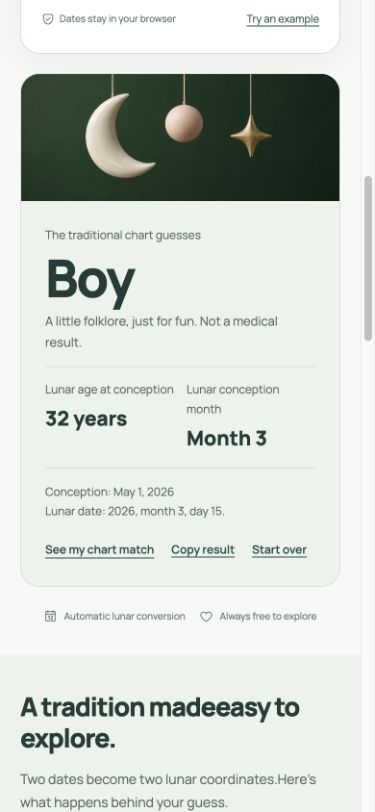
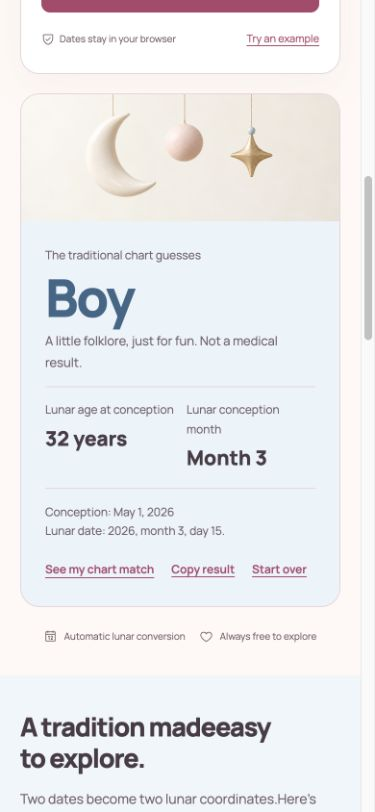
Adopt warm nursery colors and redirect production Vercel hostname

diff --git a/src/styles.css b/src/styles.css
@@ -1,16 +1,15 @@
 @font-face{font-family:Manrope;src:url('/assets/manrope-400.woff2') format('woff2');font-weight:400;font-display:swap}
 @font-face{font-family:Manrope;src:url('/assets/manrope-600.woff2') format('woff2');font-weight:600;font-display:swap}
 @font-face{font-family:Manrope;src:url('/assets/manrope-800.woff2') format('woff2');font-weight:800;font-display:swap}
-:root{--bg:#f7f9f6;--surface:#fff;--surface-soft:#edf2ed;--text:#203d34;--muted:#596b62;--accent:#174f43;--accent-hover:#0e4035;--line:#d7e0d9;--input:#fff;--input-line:#82968a;--rose:#faedef;--rose-text:#945362;--blue:#edf3f8;--blue-text:#3d6077;--shadow:0 12px 40px #284b3310;--radius:20px;color-scheme:light}
-@media(prefers-color-scheme:dark){:root:not([data-theme=light]){--bg:#121e19;--surface:#1a2a22;--surface-soft:#23382c;--text:#e2eee5;--muted:#aabfb0;--accent:#a3d8bd;--accent-hover:#b5e8ce;--line:#3e5547;--input:#17271e;--input-line:#6e8b79;--rose:#422b32;--rose-text:#f4bdcc;--blue:#263943;--blue-text:#b4d6e8;--shadow:none;color-scheme:dark}}
-:root[data-theme=dark]{--bg:#121e19;--surface:#1a2a22;--surface-soft:#23382c;--text:#e2eee5;--muted:#aabfb0;--accent:#a3d8bd;--accent-hover:#b5e8ce;--line:#3e5547;--input:#17271e;--input-line:#6e8b79;--rose:#422b32;--rose-text:#f4bdcc;--blue:#263943;--blue-text:#b4d6e8;--shadow:none;color-scheme:dark}
-*{box-sizing:border-box}html{scroll-behavior:smooth;scroll-padding-top:30px}body{margin:0;background:var(--bg);color:var(--text);font-family:Manrope,system-ui,sans-serif;font-size:16px;line-height:1.7}button,input{font:inherit}button,a{-webkit-tap-highlight-color:transparent}button{cursor:pointer}a{color:var(--accent);text-underline-offset:4px}a:hover{text-decoration-thickness:2px}img{display:block;max-width:100%;object-fit:cover}h1,h2,h3,p{margin:0}h1,h2,h3{line-height:1.2}h1{font-size:clamp(2.35rem,4.5vw,3.6rem);font-weight:800;letter-spacing:-2.5px}h2{font-size:clamp(1.75rem,2.8vw,2.5rem);font-weight:800;letter-spacing:-1.1px}h3{font-size:1.08rem;font-weight:800;letter-spacing:-.3px}p{color:var(--muted)}button{border:0}.icon{width:22px;height:22px;fill:currentColor;flex:none;vertical-align:middle}svg{max-width:100%}.container{max-width:1184px;margin:auto;padding:0 32px}[hidden]{display:none!important}.skip-link{position:absolute;top:-90px;left:20px;padding:12px;background:var(--surface);z-index:10}.skip-link:focus{top:10px}a:focus-visible,button:focus-visible,input:focus-visible,summary:focus-visible,[tabindex]:focus-visible{outline:3px solid var(--accent);outline-offset:5px}
-.site-header{border-bottom:1px solid var(--line);background:var(--bg)}.header-inner{display:flex;align-items:center;justify-content:space-between;gap:30px;height:80px}.brand{display:inline-flex;gap:11px;align-items:center;line-height:1.3;text-decoration:none;font-size:15px;font-weight:800;letter-spacing:-.25px;color:var(--text);flex:none}.brand-sub{display:block;font-size:14px;font-weight:600;letter-spacing:.2px}.brand-mark{width:40px;height:40px;border-radius:50%;background:var(--accent);color:var(--bg);display:grid;place-items:center}.brand-mark .icon{width:25px;height:25px}.desktop-nav{display:flex;gap:29px;align-items:center;margin-left:auto}.desktop-nav a{font-size:14px;font-weight:600;text-decoration:none;color:var(--muted);white-space:nowrap;position:relative}.desktop-nav a:hover,.desktop-nav a[aria-current]{color:var(--text)}.desktop-nav a[aria-current]:after{content:'';position:absolute;height:2px;background:var(--accent);left:0;right:0;bottom:-10px}.header-actions{display:flex;gap:8px}.icon-button{height:38px;width:38px;border:1px solid var(--line);border-radius:50%;display:grid;place-items:center;background:transparent;color:var(--text)}.icon-button:hover{background:var(--surface-soft)}.menu-toggle{display:none}.mobile-nav{padding:8px 24px 24px;border-top:1px solid var(--line)}.mobile-nav a{display:block;padding:10px 0;text-decoration:none}
-.tool-section{padding-top:32px;padding-bottom:34px}.intro{margin-bottom:28px}.eyebrow{font-size:11px;letter-spacing:2px;font-weight:800;color:var(--accent);margin-bottom:12px}.intro p{font-size:16px;line-height:1.75;margin-top:16px}.tool-grid{display:grid;grid-template-columns:1.15fr 1fr;gap:25px;align-items:stretch}.calculator-form{padding:29px 32px 24px;background:var(--surface);border:1px solid var(--line);border-radius:var(--radius);box-shadow:var(--shadow)}.form-heading{display:flex;align-items:center;gap:10px;margin-bottom:22px}.form-heading h2{font-size:20px;letter-spacing:-.6px}.form-icon{display:grid;place-items:center;color:var(--accent)}.mode-select{border:0;padding:0;margin:0 0 23px}.mode-select legend{font-size:13px;color:var(--muted);margin-bottom:9px}.segmented{display:flex;background:var(--surface-soft);border:1px solid var(--line);border-radius:10px;padding:4px}.segmented label{flex:1;cursor:pointer;position:relative}.segmented input{position:absolute;opacity:0;width:1px;height:1px}.segmented span{display:block;text-align:center;font-size:14px;font-weight:600;padding:9px 4px;border:1px solid transparent;border-radius:7px;color:var(--muted)}.segmented input:checked+span{background:var(--surface);border-color:var(--line);color:var(--text);box-shadow:0 2px 4px #284b3308}.segmented input:focus-visible+span{outline:3px solid var(--accent);outline-offset:2px}.field-grid{display:grid;grid-template-columns:1fr 1fr;gap:18px}.field label{display:block;font-size:14px;font-weight:800;margin-bottom:8px}.field input{display:block;width:100%;min-width:0;height:50px;padding:11px 12px;border:1px solid var(--input-line);border-radius:8px;background:var(--input);color:var(--text);font-size:15px}.field input[aria-invalid=true]{border-color:var(--rose-text)}.field-hint{font-size:12px;line-height:1.5;margin-top:8px}.fun-note{display:flex;align-items:flex-start;gap:9px;margin-top:22px;margin-bottom:20px;color:var(--muted)}.fun-note .icon{width:16px;height:16px;margin-top:3px}.fun-note p{font-size:12px;line-height:1.8}.fun-note a{font-weight:600}.button{display:inline-flex;align-items:center;justify-content:center;gap:12px;padding:13px 23px;border-radius:9px;text-decoration:none;font-size:14px;font-weight:800;line-height:1.5;white-space:nowrap;transition:transform .15s,background .15s}.button:active{transform:translateY(1px)}.primary{background:var(--accent);color:var(--bg);border:1px solid var(--accent)}.primary:hover{background:var(--accent-hover)}.secondary{background:var(--surface);border:1px solid var(--line);color:var(--text)}.secondary:hover{background:var(--surface-soft)}.submit-button{width:100%}.submit-button .icon{width:19px;height:19px}.form-bottom{display:flex;align-items:center;justify-content:space-between;gap:10px;margin-top:15px;font-size:11px;color:var(--muted)}.form-bottom span{display:flex;gap:5px;align-items:center}.form-bottom .icon{width:14px;height:14px}.text-button{background:none;color:var(--accent);font-size:12px;text-decoration:underline;text-underline-offset:3px;padding:3px 0}.form-error{margin-top:15px;margin-bottom:15px;background:var(--rose);color:var(--rose-text);padding:10px 13px;border-radius:7px;font-size:14px}.result-panel{border:1px solid var(--line);border-radius:var(--radius);overflow:hidden;background:var(--surface-soft);display:flex;flex-direction:column}.result-art{height:206px;background:#173425;overflow:hidden}.result-art img{width:100%;height:100%;object-position:center 51%}.result-content{padding:24px 30px;flex:1}.result-eyebrow{font-size:10px;letter-spacing:1.8px;font-weight:800;color:var(--muted)}.empty-result h2{font-size:26px;line-height:1.23;letter-spacing:-1px;margin:7px 0 10px}.empty-result p{font-size:13px;line-height:1.7;max-width:340px}.empty-details{display:flex;gap:30px;border-top:1px solid var(--line);margin-top:18px;padding-top:12px;font-size:11px;color:var(--muted)}.empty-details b{font-size:12px;display:block;font-weight:600;opacity:.85}.under-tool{display:flex;justify-content:center;gap:45px;font-size:12px;color:var(--muted);padding-top:24px}.under-tool span{display:flex;gap:7px;align-items:center}.under-tool .icon{width:16px;height:16px}
-.has-result .result-art{height:132px}.result-label{font-size:12px;color:var(--muted)}.prediction-value{font-size:54px;font-weight:800;line-height:1.15;letter-spacing:-2px;margin:3px 0;color:var(--text)}.result-description{font-size:13px}.result-stats{display:grid;grid-template-columns:1fr 1fr;gap:13px;border-top:1px solid var(--line);border-bottom:1px solid var(--line);padding:13px 0;margin:14px 0}.result-stats dt{font-size:12px;color:var(--muted)}.result-stats dd{margin:2px 0 0;font-size:20px;font-weight:800}.result-date,.result-warning{font-size:12px;line-height:1.65;margin-top:7px}.result-warning{color:var(--rose-text)}.result-actions{display:flex;gap:18px;align-items:center;margin-top:17px;flex-wrap:wrap}.result-actions a,.result-actions button{font-size:12px;font-weight:600}.result-actions button{display:flex;gap:6px;align-items:center}.result-actions .icon{width:15px;height:15px}.result-proof{display:block;color:var(--muted);font-size:11px;margin-top:13px}.section-heading p{font-size:15px;margin-top:15px;max-width:650px}.how-section{background:var(--surface-soft);margin-top:14px;padding:58px 0}.how-layout{display:grid;grid-template-columns:1fr 1.05fr;gap:85px;align-items:start}.text-link{display:inline-flex;align-items:center;gap:10px;font-size:14px;font-weight:800;margin-top:24px;text-decoration:none}.text-link .icon{width:17px;height:17px}.steps{list-style:none;margin:0;padding:0;display:grid;gap:25px}.steps li{display:flex;gap:18px}.step-icon{width:43px;height:43px;background:var(--surface);border:1px solid var(--line);border-radius:12px;flex:none;display:grid;place-items:center;color:var(--accent)}.steps h3{margin:1px 0 8px;font-size:15px}.steps p{font-size:13px;line-height:1.75;max-width:410px}.chart-section{padding-top:68px;padding-bottom:38px}.chart-toolbar{display:flex;align-items:center;justify-content:space-between;margin:24px 0 16px;gap:15px}.chart-key{display:flex;gap:22px;font-size:14px}.key-boy,.key-girl{display:flex;gap:8px;align-items:center;font-weight:800}.key-boy{color:var(--blue-text)}.key-girl{color:var(--rose-text)}.chart-key span span{font-weight:400;font-size:12px}.small{padding:9px 14px;font-size:12px}.small .icon{width:16px;height:16px}.small-copy{font-size:13px;max-width:760px;margin-bottom:15px}.chart-scroll{max-height:430px;overflow:auto;border:1px solid var(--line);border-radius:13px;background:var(--surface);overscroll-behavior:contain}.gender-chart{width:100%;border-spacing:0;font-size:12px;text-align:center;min-width:650px}.gender-chart caption{position:absolute;width:1px;height:1px;overflow:hidden;clip:rect(0,0,0,0)}.gender-chart th,.gender-chart td{height:43px;border-bottom:1px solid var(--line);padding:6px 10px}.gender-chart thead th{position:sticky;top:0;background:var(--surface-soft);z-index:2;font-weight:800}.gender-chart tbody th{position:sticky;left:0;background:var(--surface);z-index:1;font-weight:800}.gender-chart thead th:first-child{z-index:3;left:0;text-align:center;min-width:95px}.gender-chart .boy{background:var(--blue);color:var(--blue-text)}.gender-chart .girl{background:var(--rose);color:var(--rose-text)}.gender-chart td.selected{outline:3px solid var(--accent);outline-offset:-4px;font-weight:800;position:relative}.gender-chart td.selected:after{content:'*';position:absolute;right:8px}.chart-footnote{font-size:12px;margin-top:12px}.guide-section{padding-top:16px;padding-bottom:45px}.guide-banner{padding:30px;background:var(--surface-soft);border:1px solid var(--line);border-radius:var(--radius);display:flex;gap:23px;align-items:center}.guide-banner h2{font-size:20px;letter-spacing:-.5px}.guide-banner p{font-size:13px;margin-top:9px;max-width:490px}.guide-banner .button{margin-left:auto;flex:none}.guide-mark{color:var(--accent)}.guide-mark .icon{width:42px;height:42px}.honesty-note{display:flex;gap:14px;margin-top:32px;max-width:850px}.honesty-note>.icon{margin-top:2px;width:19px;height:19px}.honesty-note h3{font-size:15px;margin-bottom:8px}.honesty-note p{font-size:13px;line-height:1.9}.faq-section{display:grid;grid-template-columns:1fr 1.5fr;gap:60px;padding-top:30px;padding-bottom:78px}.faq-section h2{font-size:30px}.faq-list details{border-bottom:1px solid var(--line)}.faq-list details:first-child{border-top:1px solid var(--line)}summary{display:flex;align-items:center;justify-content:space-between;gap:20px;padding:19px 0;font-size:14px;font-weight:600;cursor:pointer;list-style:none}summary::-webkit-details-marker{display:none}summary .icon{width:17px;height:17px}details[open] summary .icon{transform:rotate(180deg)}.faq-list details p{padding:0 30px 20px 0;font-size:13px}.site-footer{border-top:1px solid var(--line);background:var(--surface-soft);padding:34px 0 20px}.footer-top{display:flex;align-items:start;gap:52px}.footer-top p{font-size:12px;line-height:1.9}.footer-top nav{margin-left:auto;display:grid;grid-template-columns:1fr 1fr;gap:10px 27px}.footer-top nav a{font-size:12px;text-decoration:none;color:var(--muted)}.footer-bottom{margin-top:30px;padding-top:18px;display:flex;justify-content:space-between;font-size:11px;color:var(--muted)}
+:root{--bg:#fff9f6;--surface:#fff;--surface-soft:#f8ecee;--text:#493b45;--muted:#74616d;--accent:#ad466b;--accent-hover:#983b5d;--line:#e8d5dc;--input:#fffdfc;--input-line:#a88a98;--rose:#fbe8ef;--rose-text:#97415f;--blue:#eaf3fa;--blue-text:#3d6788;--sky-soft:#f0f6fa;--shadow:0 12px 40px #82445e0c;--radius:20px;color-scheme:light}
+*{box-sizing:border-box}html{scroll-behavior:smooth;scroll-padding-top:30px}body{margin:0;background:var(--bg);color:var(--text);font-family:Manrope,system-ui,sans-serif;font-size:16px;line-height:1.7}button,input{font:inherit}button,a{-webkit-tap-highlight-color:transparent}button{cursor:pointer}a{color:var(--accent);text-underline-offset:4px}a:hover{text-decoration-thickness:2px}img{display:block;max-width:100%;object-fit:cover}h1,h2,h3,p{margin:0}h1,h2,h3{line-height:1.2}h1{font-size:clamp(2.35rem,4.5vw,3.6rem);font-weight:800;letter-spacing:-2.5px}h2{font-size:clamp(1.75rem,2.8vw,2.5rem);font-weight:800;letter-spacing:-1.1px}h3{font-size:1.08rem;font-weight:800;letter-spacing:-.3px}p{color:var(--muted)}button{border:0}h1,h2{text-wrap:balance}.icon{width:22px;height:22px;fill:currentColor;flex:none;vertical-align:middle}svg{max-width:100%}.container{max-width:1184px;margin:auto;padding:0 32px}[hidden]{display:none!important}.skip-link{position:absolute;top:-90px;left:20px;padding:12px;background:var(--surface);z-index:10}.skip-link:focus{top:10px}a:focus-visible,button:focus-visible,input:focus-visible,summary:focus-visible,[tabindex]:focus-visible{outline:3px solid var(--accent);outline-offset:5px}
+.site-header{border-bottom:1px solid var(--line);background:var(--bg)}.header-inner{display:flex;align-items:center;justify-content:space-between;gap:30px;height:80px}.brand{display:inline-flex;gap:11px;align-items:center;line-height:1.3;text-decoration:none;font-size:15px;font-weight:800;letter-spacing:-.25px;color:var(--text);flex:none}.brand-sub{display:block;font-size:14px;font-weight:600;letter-spacing:.2px}.brand-mark{width:40px;height:40px;border-radius:50%;background:var(--rose);color:var(--accent);display:grid;place-items:center}.brand-mark .icon{width:25px;height:25px}.desktop-nav{display:flex;gap:29px;align-items:center;margin-left:auto}.desktop-nav a{font-size:14px;font-weight:600;text-decoration:none;color:var(--muted);white-space:nowrap;position:relative}.desktop-nav a:hover,.desktop-nav a[aria-current]{color:var(--text)}.desktop-nav a[aria-current]:after{content:'';position:absolute;height:2px;background:var(--accent);left:0;right:0;bottom:-10px}.header-actions{display:none;gap:8px}.icon-button{height:38px;width:38px;border:1px solid var(--line);border-radius:50%;display:grid;place-items:center;background:transparent;color:var(--text)}.icon-button:hover{background:var(--surface-soft)}.menu-toggle{display:none}.mobile-nav{padding:8px 24px 24px;border-top:1px solid var(--line)}.mobile-nav a{display:block;padding:10px 0;text-decoration:none}
+.tool-section{padding-top:32px;padding-bottom:34px}.intro{margin-bottom:28px}.eyebrow{font-size:12px;letter-spacing:1px;font-weight:600;color:var(--accent);margin-bottom:12px}.intro p{font-size:16px;line-height:1.75;margin-top:16px}.tool-grid{display:grid;grid-template-columns:1.15fr 1fr;gap:25px;align-items:stretch}.calculator-form{padding:29px 32px 24px;background:var(--surface);border:1px solid var(--line);border-radius:var(--radius);box-shadow:var(--shadow)}.form-heading{display:flex;align-items:center;gap:10px;margin-bottom:22px}.form-heading h2{font-size:20px;letter-spacing:-.6px}.form-icon{display:grid;place-items:center;color:var(--accent)}.mode-select{border:0;padding:0;margin:0 0 23px}.mode-select legend{font-size:13px;color:var(--muted);margin-bottom:9px}.segmented{display:flex;background:var(--surface-soft);border:1px solid var(--line);border-radius:10px;padding:4px}.segmented label{flex:1;cursor:pointer;position:relative}.segmented input{position:absolute;opacity:0;width:1px;height:1px}.segmented span{display:block;text-align:center;font-size:14px;font-weight:600;padding:9px 4px;border:1px solid transparent;border-radius:7px;color:var(--muted)}.segmented input:checked+span{background:var(--surface);border-color:var(--line);color:var(--text);box-shadow:0 2px 4px #82445e08}.segmented input:focus-visible+span{outline:3px solid var(--accent);outline-offset:2px}.field-grid{display:grid;grid-template-columns:1fr 1fr;gap:18px}.field label{display:block;font-size:14px;font-weight:800;margin-bottom:8px}.field input{display:block;width:100%;min-width:0;height:50px;padding:11px 12px;border:1px solid var(--input-line);border-radius:8px;background:var(--input);color:var(--text);font-size:15px}.field input[aria-invalid=true]{border-color:var(--rose-text)}.field-hint{font-size:12px;line-height:1.5;margin-top:8px}.fun-note{display:flex;align-items:flex-start;gap:9px;margin-top:22px;margin-bottom:20px;color:var(--muted)}.fun-note .icon{width:16px;height:16px;margin-top:3px}.fun-note p{font-size:12px;line-height:1.8}.fun-note a{font-weight:600}.button{display:inline-flex;align-items:center;justify-content:center;gap:12px;padding:13px 23px;border-radius:9px;text-decoration:none;font-size:14px;font-weight:800;line-height:1.5;white-space:nowrap;transition:transform .15s,background .15s}.button:active{transform:translateY(1px)}.primary{background:var(--accent);color:var(--bg);border:1px solid var(--accent)}.primary:hover{background:var(--accent-hover)}.secondary{background:var(--surface);border:1px solid var(--line);color:var(--text)}.secondary:hover{background:var(--surface-soft)}.submit-button{width:100%}.submit-button .icon{width:19px;height:19px}.form-bottom{display:flex;align-items:center;justify-content:space-between;gap:10px;margin-top:15px;font-size:11px;color:var(--muted)}.form-bottom span{display:flex;gap:5px;align-items:center}.form-bottom .icon{width:14px;height:14px}.text-button{background:none;color:var(--accent);font-size:12px;text-decoration:underline;text-underline-offset:3px;padding:3px 0}.form-error{margin-top:15px;margin-bottom:15px;background:var(--rose);color:var(--rose-text);padding:10px 13px;border-radius:7px;font-size:14px}.result-panel{border:1px solid var(--line);border-radius:var(--radius);overflow:hidden;background:var(--surface-soft);display:flex;flex-direction:column}.result-art{height:206px;background:#fcf3e9;overflow:hidden}.result-art img{width:100%;height:100%;object-position:center 51%}.result-content{padding:24px 30px;flex:1}.result-eyebrow{font-size:10px;letter-spacing:1.8px;font-weight:800;color:var(--muted)}.empty-result h2{font-size:26px;line-height:1.23;letter-spacing:-1px;margin:7px 0 10px}.empty-result p{font-size:13px;line-height:1.7;max-width:340px}.empty-details{display:flex;gap:30px;border-top:1px solid var(--line);margin-top:18px;padding-top:12px;font-size:11px;color:var(--muted)}.empty-details b{font-size:12px;display:block;font-weight:600}.under-tool{display:flex;justify-content:center;gap:45px;font-size:12px;color:var(--muted);padding-top:24px}.under-tool span{display:flex;gap:7px;align-items:center}.under-tool .icon{width:16px;height:16px}
+.result-panel[data-prediction=Boy]{background:var(--blue)}.result-panel[data-prediction=Boy] .prediction-value{color:var(--blue-text)}.result-panel[data-prediction=Girl] .prediction-value{color:var(--rose-text)}
+.has-result .result-art{height:132px}.result-label{font-size:12px;color:var(--muted)}.prediction-value{font-size:54px;font-weight:800;line-height:1.15;letter-spacing:-2px;margin:3px 0;color:var(--text)}.result-description{font-size:13px}.result-stats{display:grid;grid-template-columns:1fr 1fr;gap:13px;border-top:1px solid var(--line);border-bottom:1px solid var(--line);padding:13px 0;margin:14px 0}.result-stats dt{font-size:12px;color:var(--muted)}.result-stats dd{margin:2px 0 0;font-size:20px;font-weight:800}.result-date,.result-warning{font-size:12px;line-height:1.65;margin-top:7px}.result-warning{color:var(--rose-text)}.result-actions{display:flex;gap:18px;align-items:center;margin-top:17px;flex-wrap:wrap}.result-actions a,.result-actions button{font-size:12px;font-weight:600}.result-actions button{display:flex;gap:6px;align-items:center}.result-actions .icon{width:15px;height:15px}.result-proof{display:block;color:var(--muted);font-size:11px;margin-top:13px}.section-heading p{font-size:15px;margin-top:15px;max-width:650px}.how-section{background:var(--sky-soft);margin-top:14px;padding:58px 0}.how-layout{display:grid;grid-template-columns:1fr 1.05fr;gap:85px;align-items:start}.text-link{display:inline-flex;align-items:center;gap:10px;font-size:14px;font-weight:800;margin-top:24px;text-decoration:none}.text-link .icon{width:17px;height:17px}.steps{list-style:none;margin:0;padding:0;display:grid;gap:25px}.steps li{display:flex;gap:18px}.step-icon{width:43px;height:43px;background:var(--surface);border:1px solid var(--line);border-radius:12px;flex:none;display:grid;place-items:center;color:var(--accent)}.steps h3{margin:1px 0 8px;font-size:15px}.steps p{font-size:13px;line-height:1.75;max-width:410px}.chart-section{padding-top:68px;padding-bottom:38px}.chart-toolbar{display:flex;align-items:center;justify-content:space-between;margin:24px 0 16px;gap:15px}.chart-key{display:flex;gap:22px;font-size:14px}.key-boy,.key-girl{display:flex;gap:8px;align-items:center;font-weight:800}.key-boy{color:var(--blue-text)}.key-girl{color:var(--rose-text)}.chart-key span span{font-weight:400;font-size:12px}.small{padding:9px 14px;font-size:12px}.small .icon{width:16px;height:16px}.small-copy{font-size:13px;max-width:760px;margin-bottom:15px}.chart-scroll{max-height:430px;overflow:auto;border:1px solid var(--line);border-radius:13px;background:var(--surface);overscroll-behavior:contain}.gender-chart{width:100%;border-spacing:0;font-size:12px;text-align:center;min-width:650px}.gender-chart caption{position:absolute;width:1px;height:1px;overflow:hidden;clip:rect(0,0,0,0)}.gender-chart th,.gender-chart td{height:43px;border-bottom:1px solid var(--line);padding:6px 10px}.gender-chart thead th{position:sticky;top:0;background:var(--surface-soft);z-index:2;font-weight:800}.gender-chart tbody th{position:sticky;left:0;background:var(--surface);z-index:1;font-weight:800}.gender-chart thead th:first-child{z-index:3;left:0;text-align:center;min-width:95px}.gender-chart .boy{background:var(--blue);color:var(--blue-text)}.gender-chart .girl{background:var(--rose);color:var(--rose-text)}.gender-chart td.selected{outline:3px solid var(--accent);outline-offset:-4px;font-weight:800;position:relative}.gender-chart td.selected:after{content:'*';position:absolute;right:8px}.chart-footnote{font-size:12px;margin-top:12px}.guide-section{padding-top:16px;padding-bottom:45px}.guide-banner{padding:30px;background:var(--surface-soft);border:1px solid var(--line);border-radius:var(--radius);display:flex;gap:23px;align-items:center}.guide-banner h2{font-size:20px;letter-spacing:-.5px}.guide-banner p{font-size:13px;margin-top:9px;max-width:490px}.guide-banner .button{margin-left:auto;flex:none}.guide-mark{color:var(--accent)}.guide-mark .icon{width:42px;height:42px}.honesty-note{display:flex;gap:14px;margin-top:32px;max-width:850px}.honesty-note>.icon{margin-top:2px;width:19px;height:19px}.honesty-note h3{font-size:15px;margin-bottom:8px}.honesty-note p{font-size:13px;line-height:1.9}.faq-section{display:grid;grid-template-columns:1fr 1.5fr;gap:60px;padding-top:30px;padding-bottom:78px}.faq-section h2{font-size:30px}.faq-list details{border-bottom:1px solid var(--line)}.faq-list details:first-child{border-top:1px solid var(--line)}summary{display:flex;align-items:center;justify-content:space-between;gap:20px;padding:19px 0;font-size:14px;font-weight:600;cursor:pointer;list-style:none}summary::-webkit-details-marker{display:none}summary .icon{width:17px;height:17px}details[open] summary .icon{transform:rotate(180deg)}.faq-list details p{padding:0 30px 20px 0;font-size:13px}.site-footer{border-top:1px solid var(--line);background:var(--surface-soft);padding:34px 0 20px}.footer-top{display:flex;align-items:start;gap:52px}.footer-top p{font-size:12px;line-height:1.9}.footer-top nav{margin-left:auto;display:grid;grid-template-columns:1fr 1fr;gap:10px 27px}.footer-top nav a{font-size:12px;text-decoration:none;color:var(--muted)}.footer-bottom{margin-top:30px;padding-top:18px;display:flex;justify-content:space-between;font-size:11px;color:var(--muted)}
 .article-section{padding-top:47px;padding-bottom:75px}.breadcrumb{font-size:12px;color:var(--muted);margin-bottom:25px}.breadcrumb a{text-decoration:none}.article-header{max-width:810px;margin-bottom:35px}.article-header h1{font-size:clamp(2.1rem,4vw,3.1rem);line-height:1.15}.article-header p{font-size:17px;margin-top:20px}.article-layout{display:grid;grid-template-columns:minmax(0,760px) 250px;gap:65px;align-items:start}.article-layout>*{min-width:0}.prose{font-size:16px;line-height:1.9}.prose h2{font-size:25px;margin:35px 0 15px}.prose h2:first-child{margin-top:0}.prose h3{margin:25px 0 10px;font-size:18px}.prose p{margin:0 0 19px}.prose ul,.prose ol{padding-left:23px;color:var(--muted);margin:0 0 22px}.prose li{padding-left:5px;margin-bottom:9px}.prose a{overflow-wrap:anywhere}.article-aside{position:sticky;top:24px;padding:23px;background:var(--surface-soft);border:1px solid var(--line);border-radius:14px}.article-aside h2{font-size:17px;letter-spacing:-.3px;margin-bottom:15px}.article-aside a{display:block;font-size:13px;margin:12px 0;text-decoration:none}.article-aside .button{margin:22px 0 0}.note-box{background:var(--surface-soft);border-left:3px solid var(--accent);padding:20px 23px;margin:25px 0;border-radius:0 10px 10px 0}.note-box p:last-child{margin-bottom:0}.formula{font-size:20px;font-weight:800;color:var(--text)!important;line-height:1.5}.source-list{font-size:14px}.month-table{width:100%;border-collapse:collapse;font-size:14px}.month-table th,.month-table td{padding:13px 14px;text-align:left;border-bottom:1px solid var(--line)}.month-table th{background:var(--surface-soft);font-size:12px}.table-wrap{overflow:auto;border:1px solid var(--line);border-radius:12px;margin:22px 0}.updated{font-size:12px;color:var(--muted);margin-top:18px}.age-tool .tool-grid{margin-bottom:45px}.age-tool .calculator-form{display:flex;flex-direction:column;justify-content:center}.age-tool .submit-button{margin-top:26px}.age-tool .form-heading{margin-bottom:28px}.no-js{padding:14px;background:var(--rose);color:var(--rose-text);border-radius:8px;font-size:14px}.not-found{min-height:60vh;display:grid;align-content:center;gap:25px}.not-found .button{justify-self:start}.copy-status{font-size:12px;color:var(--muted);margin-top:8px}
 @media(max-width:1023px){.desktop-nav{gap:19px}.desktop-nav a{font-size:12px}.header-inner{gap:20px}.calculator-form{padding:24px}.result-content{padding:23px}.how-layout{gap:50px}.article-layout{grid-template-columns:minmax(0,1fr) 220px;gap:36px}.guide-banner{flex-wrap:wrap}.guide-banner .button{margin-left:66px}.field-grid{gap:12px}.field input{font-size:14px;padding:10px}.footer-top{gap:30px}.faq-section{gap:40px}}
-@media(max-width:767px){.container{padding-left:21px;padding-right:21px}.header-inner{height:76px;gap:16px}.brand{font-size:13px;gap:9px}.brand-sub{font-size:12px}.brand-mark{width:35px;height:35px}.brand-mark .icon{width:22px;height:22px}.desktop-nav{display:none}.menu-toggle{display:grid}.header-actions{margin-left:auto}.icon-button{width:35px;height:35px}.tool-section{padding-top:30px;padding-bottom:28px}h1{letter-spacing:-1.6px;font-size:2.25rem;line-height:1.16}.eyebrow{font-size:9px;letter-spacing:1.6px}.intro{margin-bottom:24px}.intro p{font-size:14px;line-height:1.8;margin-top:13px}.desktop-break{display:none}.tool-grid{grid-template-columns:1fr;gap:20px}.calculator-form{padding:23px 21px}.form-heading h2{font-size:18px}.form-heading{margin-bottom:18px}.field-grid{gap:18px;grid-template-columns:1fr}.field input{font-size:16px;height:49px}.field label{font-size:13px}.field-hint{font-size:12px}.mode-select{margin-bottom:21px}.segmented span{font-size:13px}.fun-note{margin-top:18px;margin-bottom:17px}.form-bottom{font-size:10px;gap:8px}.text-button{font-size:11px}.result-art{height:180px}.result-content{padding:25px}.empty-result h2{font-size:26px}.under-tool{gap:15px;flex-wrap:wrap;padding-top:22px;font-size:10px}.under-tool span:last-child{display:none}.under-tool .icon{width:14px;height:14px}.how-section{padding:37px 0;margin-top:4px}.how-layout{grid-template-columns:1fr;gap:30px}.section-heading h2 br{display:none}.section-heading h2{font-size:27px}.section-heading p{font-size:14px}.section-heading p br{display:none}.steps{gap:22px}.steps p{font-size:13px}.chart-section{padding-top:42px;padding-bottom:25px}.small-copy{font-size:12px}.chart-scroll{max-height:356px}.chart-footnote{font-size:11px}.chart-toolbar{margin-top:20px}.guide-section{padding-top:8px;padding-bottom:30px}.guide-banner{padding:23px;gap:15px}.guide-mark{display:none}.guide-banner h2{font-size:21px}.guide-banner p{font-size:13px}.guide-banner .button{margin-left:0;margin-top:5px}.honesty-note{margin-top:25px}.honesty-note p{font-size:12px}.faq-section{grid-template-columns:1fr;gap:24px;padding-top:17px;padding-bottom:45px}.faq-section h2{font-size:27px}.faq-list summary{font-size:13px}.faq-list details p{font-size:13px}.footer-top{display:grid;grid-template-columns:1fr;gap:22px}.footer-top p{display:none}.footer-top nav{margin-left:0;gap:12px 23px;grid-template-columns:1fr 1fr}.footer-bottom{margin-top:22px;display:grid;gap:7px;font-size:10px}.article-section{padding-top:30px;padding-bottom:45px}.article-header h1{font-size:2.15rem;letter-spacing:-1.4px}.article-header p{font-size:16px}.article-layout{grid-template-columns:minmax(0,1fr);gap:35px}.article-aside{position:static}.prose{font-size:15px;line-height:1.85}.prose h2{font-size:23px}.prose h3{font-size:17px}.formula{font-size:18px}.month-table{font-size:12px;min-width:440px}.month-table th,.month-table td{padding:11px 12px}.article-header{margin-bottom:28px}.breadcrumb{margin-bottom:22px}.result-stats dd{font-size:21px}}
+@media(max-width:767px){.container{padding-left:21px;padding-right:21px}.header-inner{height:76px;gap:16px}.brand{font-size:13px;gap:9px}.brand-sub{font-size:12px}.brand-mark{width:35px;height:35px}.brand-mark .icon{width:22px;height:22px}.desktop-nav{display:none}.menu-toggle{display:grid}.header-actions{display:flex;margin-left:auto}.icon-button{width:35px;height:35px}.tool-section{padding-top:30px;padding-bottom:28px}h1{letter-spacing:-1.6px;font-size:2.25rem;line-height:1.16}.eyebrow{font-size:9px;letter-spacing:1.6px}.intro{margin-bottom:24px}.intro p{font-size:14px;line-height:1.8;margin-top:13px}.desktop-break{display:none}.tool-grid{grid-template-columns:1fr;gap:20px}.calculator-form{padding:23px 21px}.form-heading h2{font-size:18px}.form-heading{margin-bottom:18px}.field-grid{gap:18px;grid-template-columns:1fr}.field input{font-size:16px;height:49px}.field label{font-size:13px}.field-hint{font-size:12px}.mode-select{margin-bottom:21px}.segmented span{font-size:13px}.fun-note{margin-top:18px;margin-bottom:17px}.form-bottom{font-size:10px;gap:8px}.text-button{font-size:11px}.result-art{height:180px}.result-content{padding:25px}.empty-result h2{font-size:26px}.under-tool{gap:15px;flex-wrap:wrap;padding-top:22px;font-size:10px}.under-tool span:last-child{display:none}.under-tool .icon{width:14px;height:14px}.how-section{padding:37px 0;margin-top:4px}.how-layout{grid-template-columns:1fr;gap:30px}.section-heading h2 br{display:none}.section-heading h2{font-size:27px}.section-heading p{font-size:14px}.section-heading p br{display:none}.steps{gap:22px}.steps p{font-size:13px}.chart-section{padding-top:42px;padding-bottom:25px}.small-copy{font-size:12px}.chart-scroll{max-height:356px}.chart-footnote{font-size:11px}.chart-toolbar{margin-top:20px}.guide-section{padding-top:8px;padding-bottom:30px}.guide-banner{padding:23px;gap:15px}.guide-mark{display:none}.guide-banner h2{font-size:21px}.guide-banner p{font-size:13px}.guide-banner .button{margin-left:0;margin-top:5px}.honesty-note{margin-top:25px}.honesty-note p{font-size:12px}.faq-section{grid-template-columns:1fr;gap:24px;padding-top:17px;padding-bottom:45px}.faq-section h2{font-size:27px}.faq-list summary{font-size:13px}.faq-list details p{font-size:13px}.footer-top{display:grid;grid-template-columns:1fr;gap:22px}.footer-top p{display:none}.footer-top nav{margin-left:0;gap:12px 23px;grid-template-columns:1fr 1fr}.footer-bottom{margin-top:22px;display:grid;gap:7px;font-size:10px}.article-section{padding-top:30px;padding-bottom:45px}.article-header h1{font-size:2.15rem;letter-spacing:-1.4px}.article-header p{font-size:16px}.article-layout{grid-template-columns:minmax(0,1fr);gap:35px}.article-aside{position:static}.prose{font-size:15px;line-height:1.85}.prose h2{font-size:23px}.prose h3{font-size:17px}.formula{font-size:18px}.month-table{font-size:12px;min-width:440px}.month-table th,.month-table td{padding:11px 12px}.article-header{margin-bottom:28px}.breadcrumb{margin-bottom:22px}.result-stats dd{font-size:21px}}
 @media(prefers-reduced-motion:reduce){html{scroll-behavior:auto}*,*:before,*:after{transition:none!important;animation:none!important}}
 @media print{body{background:white;color:#111;font-size:11pt;line-height:1.35}.chart-toolbar{margin:12px 0;display:flex}.chart-toolbar .button{display:none}.chart-key span{color:#111}.chart-section h2{font-size:22pt}.chart-section p{margin-top:8px;font-size:10pt}.site-header,.site-footer,.tool-section,.how-section,.guide-section,.faq-section,.article-aside,.breadcrumb,.result-art,.header-actions{display:none!important}.container{max-width:none;padding:0}.chart-section{padding-top:0}.chart-section .section-heading .eyebrow{display:none}.chart-scroll{max-height:none;overflow:visible;border:0}.gender-chart{min-width:0;font-size:9pt;width:100%}.gender-chart th,.gender-chart td{height:20px;padding:3px;line-height:1.1;color:#111!important;background:white!important;border:1px solid #bbb}.gender-chart td.selected{outline:2px solid #111}.gender-chart thead th,.gender-chart tbody th{position:static}.chart-footnote{font-size:9pt}.article-layout{display:block}.prose{font-size:11pt}.article-section{padding-top:0}.article-header h1{font-size:26pt}a{color:#111}.table-wrap{overflow:visible}.no-print{display:none!important}@page{margin:15mm}}
 

diff --git a/docs/QA.md b/docs/QA.md
@@ -21,7 +21,7 @@
 | 结果复制 | 实际复制文本包含猜测、娱乐说明和站点地址，不含生日、受孕日、预产期或农历年龄；测试后恢复空剪贴板 |
 | 移动布局 | 390×844 视口下，首页和 2027 文章页面宽度与根元素滚动宽度均为 375 CSS px（另有浏览器滚动条）；宽表格仅在自身容器内滚动 |
 | 桌面布局 | 1440×1000 视口下，两列工具正常；页面无横向溢出 |
-| 导航与主题 | 手机导航展开及跳转正常；深色和浅色模式均检查 |
+| 导航与主题 | 手机导航展开及跳转正常；现为固定明亮的奶油白、玫瑰粉主题，已移除旧暗色切换 |
 | FAQ | 可展开读取答案 |
 | 无 JavaScript | 显示启用脚本提示；提交按钮禁用；静态正文和表格仍在 HTML 中 |
 | 打印 | print 媒体模拟中隐藏表单与导航，保留 B/G 图例、28 行完整表格和说明；未测试实体打印机 |
@@ -56,3 +56,12 @@
 - 生成插图的高清原件保留于 Codex generated_images；临时 PNG 副本已核对哈希后移入废纸篓。
 - 临时下载的矩阵源码和许可证副本在内容及许可完成归档后移入废纸篓。
 - 测试用脚本禁用、打印模拟、网络监听和视口覆盖均已恢复；验收与重复预览标签页已关闭。
+
+## 2026-10-08 晚间视觉修订
+
+- 按用户反馈去除森林绿和自动暗色主题；重新生成浅色月亮插图，更新 favicon、品牌图标、按钮、图表及所有支持页面配色。
+- 男孩结果使用淡蓝背景，女孩结果使用淡粉背景；实测两种结果和重置均正常，控制台无 error。
+- 手机390×844视口下页面无横向溢出（内容宽和scrollWidth均375 CSS px，剩余为滚动条）；移动导航正常。桌面及手机截图已替换为新版本。
+- 独立核算的正文、辅助文字、链接、按钮、图表文字对比度通过4.5:1；表单边界通过3:1。修复粉底链接4.46:1不足和空结果文字透明度导致的3.68:1不足。
+- 根域已通过16项线上HTTP检查；刷新Google及Cloudflare公共缓存后，两者根域A均为216.198.79.1、NS为Spaceship、DS无记录且无SERVFAIL。
+- `vercel.json` 增加精确生产主机308跳转至正式域名；最终跳转状态、路径和查询参数保留情况将在此次部署完成后复验。

diff --git a/docs/DEVELOPMENT.md b/docs/DEVELOPMENT.md
@@ -59,9 +59,9 @@ npm run check
 
 ## 设计
 
-工具优先，Manrope 自托管字体，深绿主色，蓝/玫瑰色仅区分图表结果。圆角分工：主面板20px、表单控件8至10px、品牌和图标按钮圆形。CSS语义变量支持系统与手动深色模式。设计参数：变化4、动效2、密度4；仅交互反馈，无自动播放动画。
+工具优先，Manrope 自托管字体，暖奶油白底色、玫瑰粉主色，淡蓝和淡粉区分图表及预测结果。圆角分工：主面板20px、表单控件8至10px、品牌和图标按钮圆形。全站固定明亮主题，不跟随系统暗色偏好；已移除旧主题切换与本地主题读取。设计参数：变化4、动效2、密度4；仅交互反馈，无自动播放动画。
 
-原始月亮静物图为本项目生成，交付使用压缩JPEG。所有字体、图标、图片本地托管。无GA4/AdSense或第三方追踪脚本，后续接入前更新隐私文本；事件不得携带日期或出生相关信息。
+原始月亮静物图为本项目生成，现已改为奶油白婴儿房背景、粉色圆球与浅蓝装饰，交付使用67 KB压缩JPEG。所有字体、图标、图片本地托管。无GA4/AdSense或第三方追踪脚本，后续接入前更新隐私文本；事件不得携带日期或出生相关信息。
 
 ## 上线前的实际配置
 
